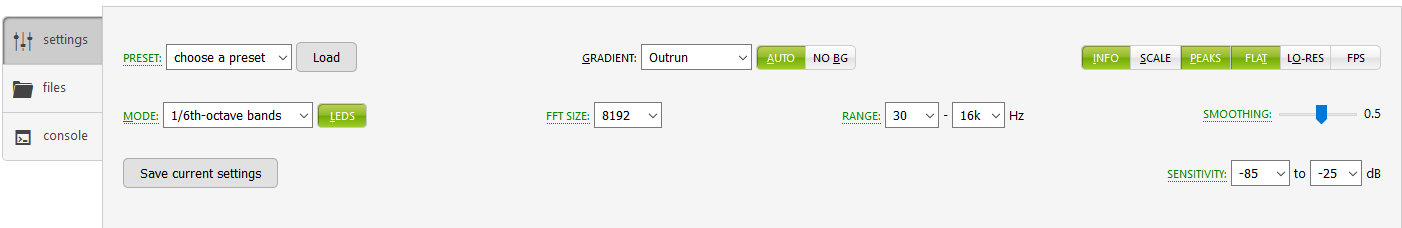
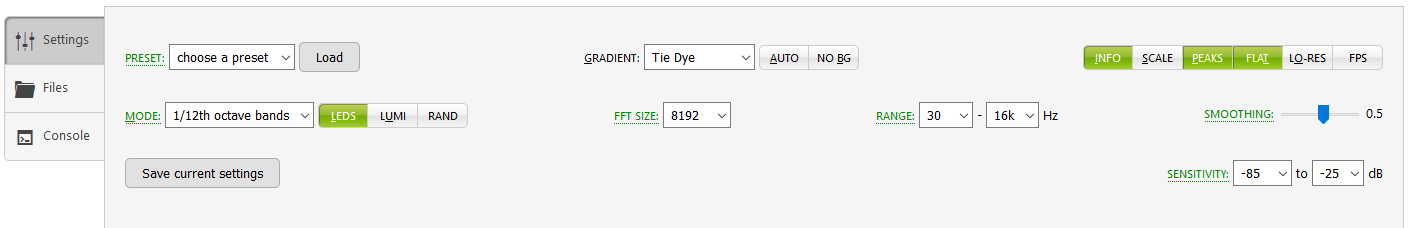
Update docs.

diff --git a/docs/user-interface.md b/docs/user-interface.md
@@ -41,7 +41,7 @@ You can use the keyboard shortcuts below to control the player and change some s
 **Left** / **Right** | **J** / **K** | play previous / next song
 **Space** | | play / pause
 **Up** / **Down** | **Shift+G** / **G** | select previous / next gradient
-**A** | | toggle auto gradient change
+**A** | | cycle through auto gradient and random mode options
 **B** | | toggle background
 **D** | | display current song info - press again for settings info
 **F** | | toggle fullscreen mode
@@ -52,10 +52,11 @@ You can use the keyboard shortcuts below to control the player and change some s
 **Shift+N** / **N** | | reduce / increase analyzer sensitivity
 **O** | | toggle low-resolution mode
 **P** | | toggle peaks display
-**R** | | toggle playlist repeat
-**S** | click on analyzer | toggle frequency scale display on/off
+**Q** | | shuffle play queue
+**R** | | toggle play queue repeat
+**S** | click on analyzer | toggle frequency scale display
 **T** | | toggle flat text option
-**U** | | shuffle playlist
+**U** | | toggle luminance bars effect
 
 
 ## User Interface Panels
@@ -110,12 +111,19 @@ The underlined character in each switch label indicates its keyboard shortcut, w
 
 ![ui-mode](img/UI_mode.png)
 
-Selects the visualization mode. *Discrete frequencies* mode allows you to visualize individual frequencies, limited only by the resolution of both the [FFT](https://en.wikipedia.org/wiki/Fast_Fourier_transform) and your display.
-The *octave bands* modes will display wider bars, representing ranges of frequencies based on a [24-tone equal tempered scale](https://en.wikipedia.org/wiki/Quarter_tone).
+Selects the visualization mode.
+*Discrete frequencies* mode allows you to visualize individual frequencies, limited only by the resolution of both the [FFT](https://en.wikipedia.org/wiki/Fast_Fourier_transform) and your display.
+*Area fill* mode displays the same frequency data, but as a filled shape.
+
+The *octave bands* modes will display wider vertical bars, representing the amplitudes of ranges of frequencies based on a [24-tone equal tempered scale](https://en.wikipedia.org/wiki/Quarter_tone).
 
 You can also select the visualization mode using the **M** and **Shift + M** keyboard shortcuts.
 
-The **LEDS** switch toggles the LED effect applied to the analyzer bars.
+Switches:
+
++ **LEDS** toggles the vintage LED effect for the analyzer bars *(octave bands modes only)*
++ **LUMI** toggles the luminance bars effect - analyzer bars are displayed always at full-height, varying their luminance instead *(octave bands modes only)*
++ **RAND** selects a random visualization mode and effects on every track change; if the AUTO gradient switch is active, a random gradient will be selected as well.
 
 #### FFT Size
 

diff --git a/README.md b/README.md
@@ -54,7 +54,12 @@ The complete command line options are:
 
 ## Documentation
 
-For complete documentation, see the [docs folder](docs/).
++ [User interface](docs/user-interface.md)
++ [Server modes](docs/server.md)
++ [Building audioMotion](docs/building.md)
++ [Legacy features](docs/legacy.md)
+
+For documentation summary, see the [docs folder](docs/).
 
 ## Screenshots
 
